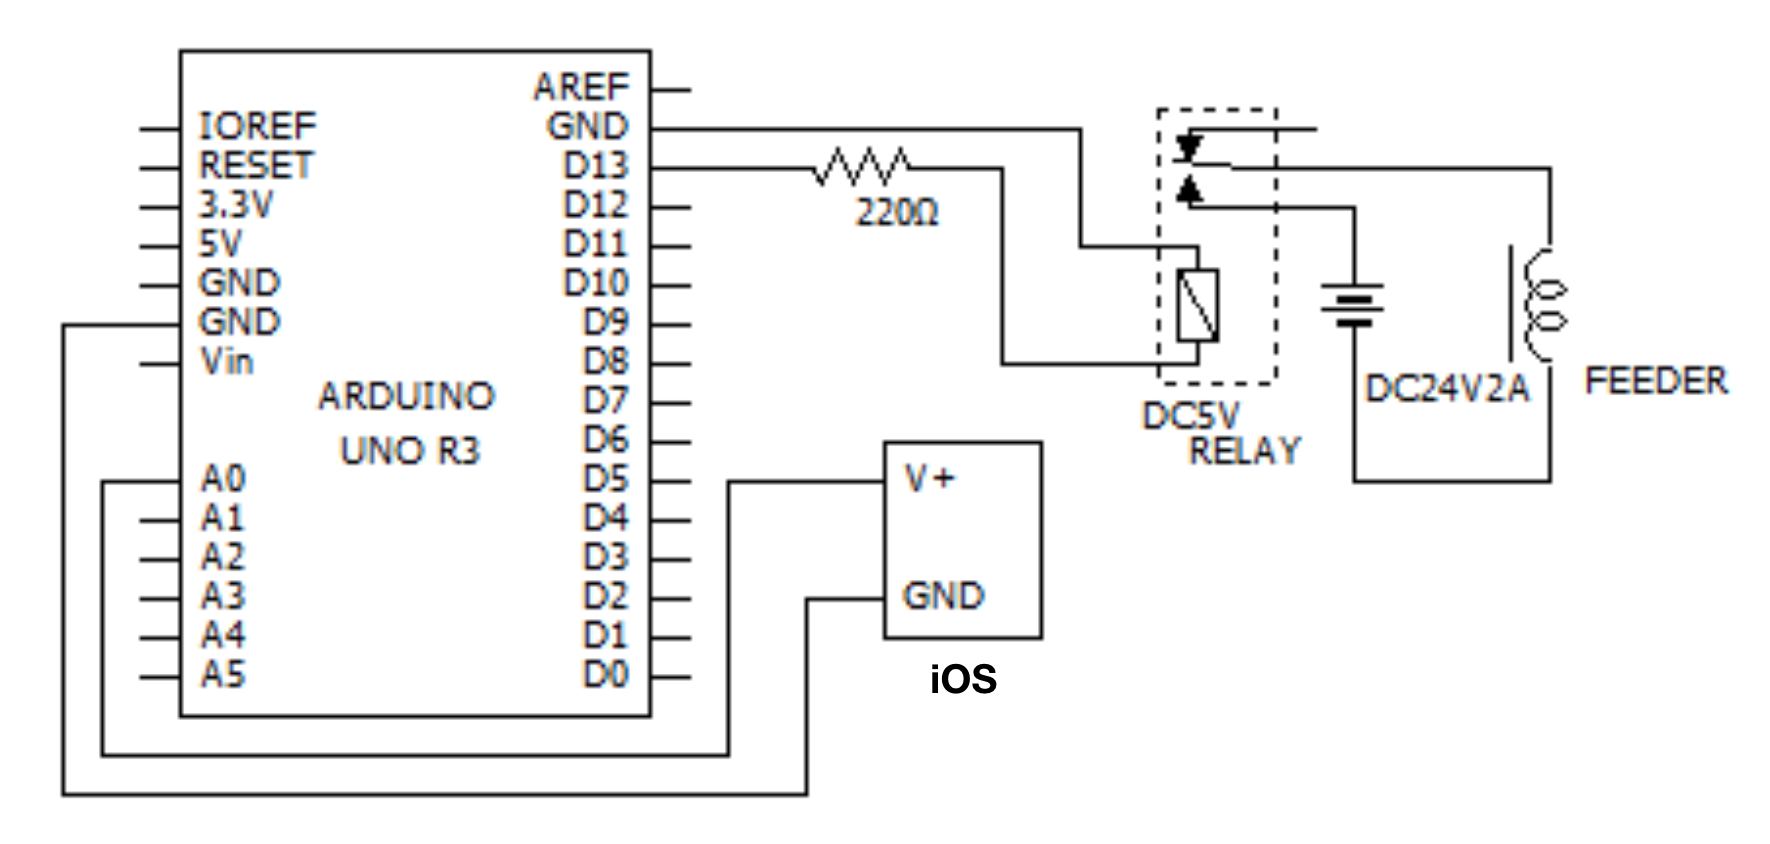
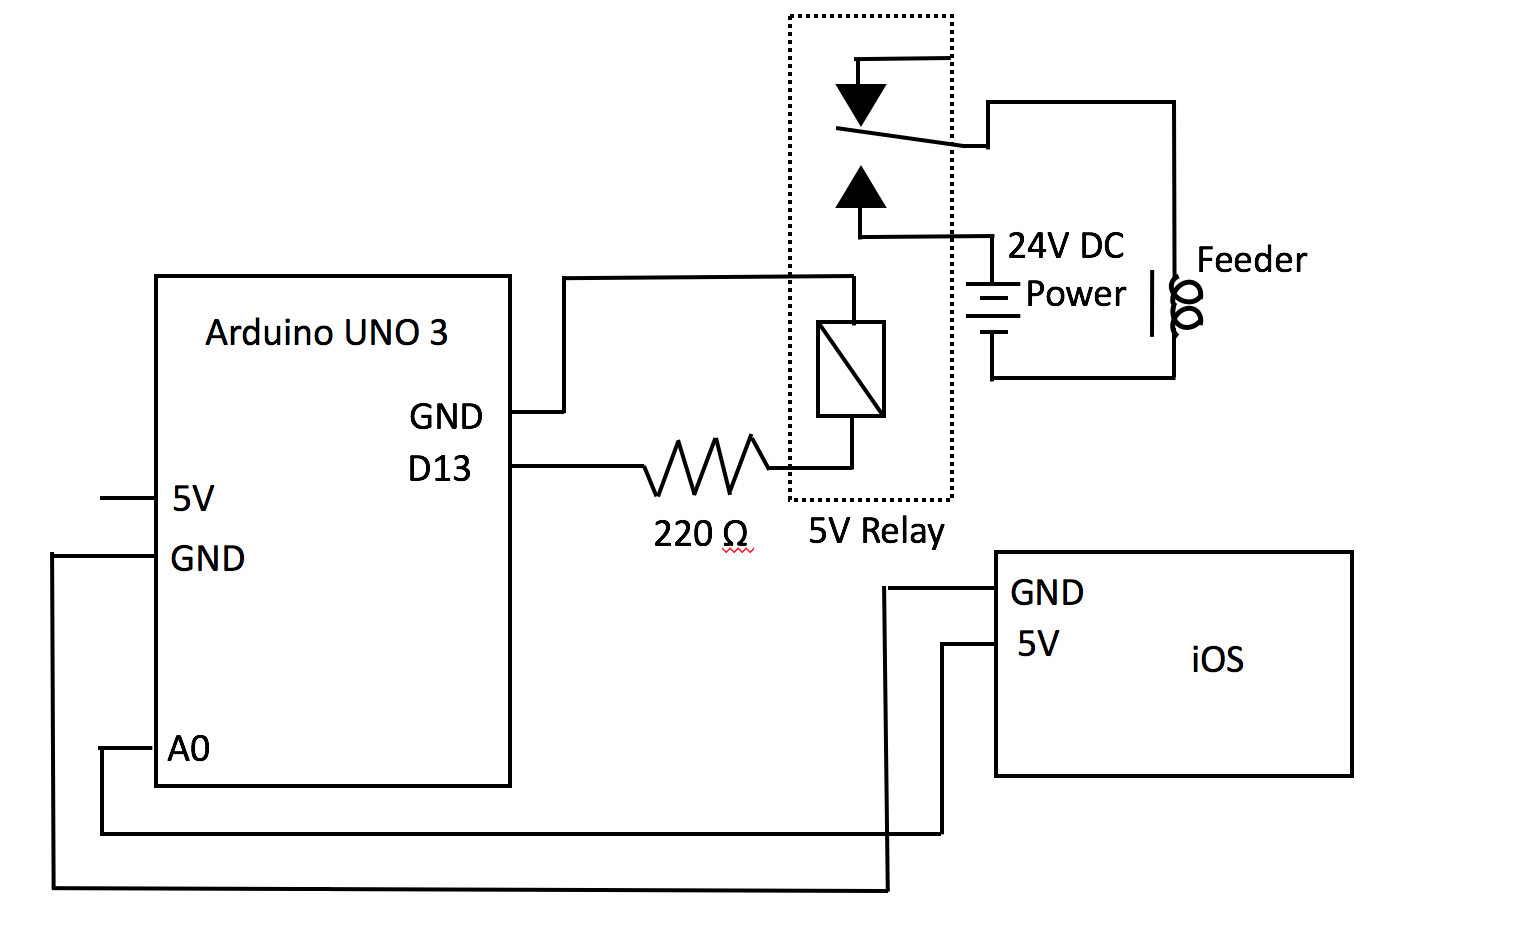
:memo: Update doc

Changed region(s): [[0.0308, 0.0308, 0.9856, 0.955], [0.6468, 0.8009, 0.8932, 0.8318], [0.77, 0.6777, 0.8316, 0.7393]]

diff --git a/OperantChamberApp/docs/research.md b/OperantChamberApp/docs/research.md
@@ -32,4 +32,26 @@ This page has computing VI or VR values. The researchers are compute using this 
 
 This app can connect to other devices. for iPad to iPhone, iPhone to iPhone, iPhone to Arduino® with extend chambers or feeders.
 
+<br>
+
+Previous research, An experiment needs An operant chamber, a computer, and an I/O board.
+
+![oco](https://user-images.githubusercontent.com/22558921/37643040-a9da7d26-2c62-11e8-9a23-01d24fbac6a4.png)
+
+Using this app, it can create and compute contingencies. So it is substituted for your computer.
+
+![oio](https://user-images.githubusercontent.com/22558921/37643043-aa509042-2c62-11e8-94ad-f3b52fdd63a9.png)
+
+And then, A rat if you use, responses are catched from a touch screen (Pineño, 2014). So you can do the experiment with only a feeder!
+
+![iio](https://user-images.githubusercontent.com/22558921/37643042-aa1b69da-2c62-11e8-8b09-537eab7cdbbc.png)
+
+Experiment on humans, only iOS device, iOS to iOS communication is like social experiment!
+
+How to use it? I'm looking for your ideas!
+
+If you contact me, see Copyright page on the app.
+
+Thank you.
+
 See also [here](https://github.com/YutoMizutani/AppInfoFiles/blob/master/OperantChamberApp/docs/AudioInfo.md).

diff --git a/OperantChamberApp/docs/BLEInfo.md b/OperantChamberApp/docs/BLEInfo.md
@@ -1,8 +1,19 @@
 ###### See on [GitHub](https://github.com/YutoMizutani/AppInfoFiles/blob/master/OperantChamberApp/docs/AudioInfo.md) or download an [app](https://itunes.apple.com/jp/app/operantchamberapp/id1250835517).
 
 ## Bluetooth LE communication
+
 This app can be connected to the other devices using bluetooth low technology.<br>
 Bluetooth LE can connect without authorization, so peripheral devices without knowing when established connection. It is easy and suitable for experiment.
+
+<br>
+
+## Algorithm
+
+![al1](https://user-images.githubusercontent.com/22558921/37642638-40e222de-2c61-11e8-9592-146ff95fd071.png)
+
+![al2](https://user-images.githubusercontent.com/22558921/37642639-41156dec-2c61-11e8-892f-e6740789488b.png)
+
+This app use number of bytes send/receive data for Bluetooth LE. The method is faster than translate data from text or number.
 
 <br>
 
@@ -226,7 +237,9 @@ void UserFunc(unsigned long num) {
 
 <br>
 
-#### Diagram
+#### Circuit diagram
+
+![cd1](https://user-images.githubusercontent.com/22558921/37642556-dd7b59fe-2c60-11e8-96d4-fdcd624a1a42.png)
 
 ![rn4020](https://user-images.githubusercontent.com/22558921/37634953-2a5fc3ce-2c3c-11e8-8c6e-38401823077a.jpeg)
 

diff --git a/OperantChamberApp/docs/AudioInfo.md b/OperantChamberApp/docs/AudioInfo.md
@@ -6,6 +6,12 @@ The connection method using the most inexpensive and simple method as long as th
 
 <br>
 
+## Algorithm
+
+![al](https://user-images.githubusercontent.com/22558921/37642596-16f80de4-2c61-11e8-872b-347f69f8a294.png)
+
+<br>
+
 ## Connect with Arduino
 
 #### About
